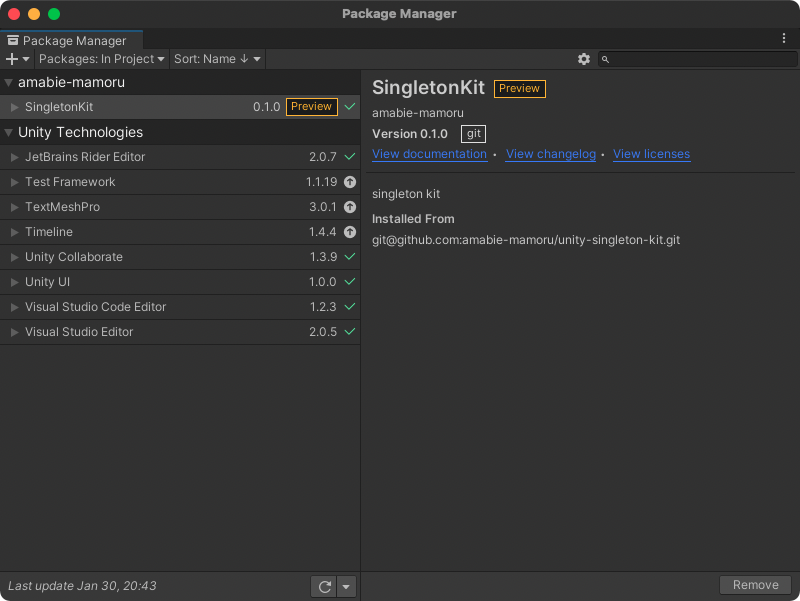
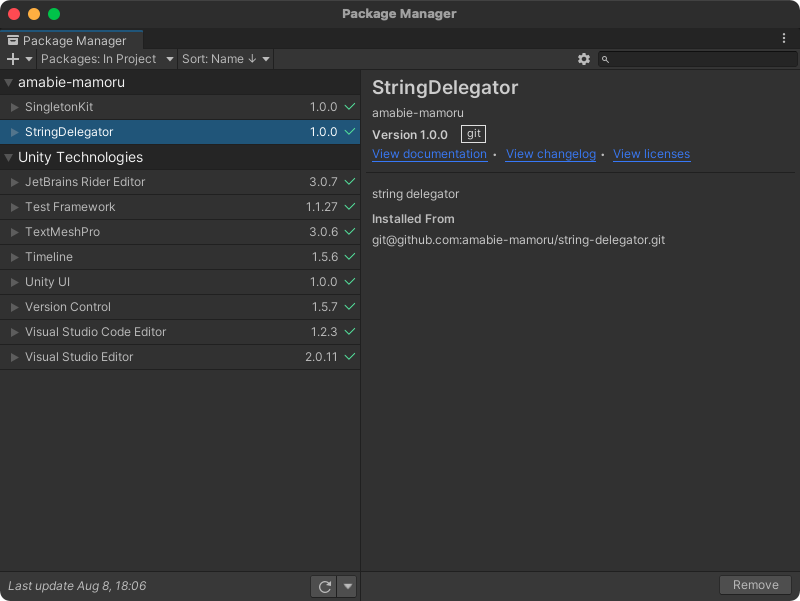
update document

diff --git a/README.md b/README.md
@@ -22,6 +22,44 @@ Let's enjoy 🧜🏼y <200d>♂
 
 # Features
 
-## StringDelegator
+## StringDelegator (GameObject Extension)
 
 ### Interface
+
+#### static methods
+
+Method Name | Description
+--- | ---
+ToFunc&lt;T&gt;(Type classTypeWithNamespace, string methodName) | Generate Func in GameObject with class type with namespace and method name (return type is T).
+ToAction(Type classTypeWithNamespace, string methodName) | Generate Action in GameObject with class type with namespace and method name.
+
+### Usage
+```cs
+using com.amabie.StringDelegator;
+
+public class Sample: MonoBehaviour
+{
+    [SerializeField]
+    private GameObject gameObj;
+
+    void Awake()
+    {
+      gameObj = new GameObject();
+      gameObj.AddComponent<AttachedClass>();
+      gameObj.ToFunc<float>(typeof(AttachedClass), "DummyFunc");
+      gameObj.ToAction(typeof(AttachedClass), "DummyAction");
+    }
+
+    public class AttachedClass: MonoBehaviour
+    {
+        public float DummyFunc() => 1.0f;
+        public void DummyAction() {}
+    }
+}
+```
+
+# Support
+
+see test codes.
+
+![](./Documentation~/images/test-all-green.png)

diff --git a/CHANGELOG.md b/CHANGELOG.md
@@ -4,6 +4,9 @@
 
 nothing
 
+## [1.0.0] - 2021-08-11
+
 ### Added
 
 - add string delegator class
+- add string delegator class test
